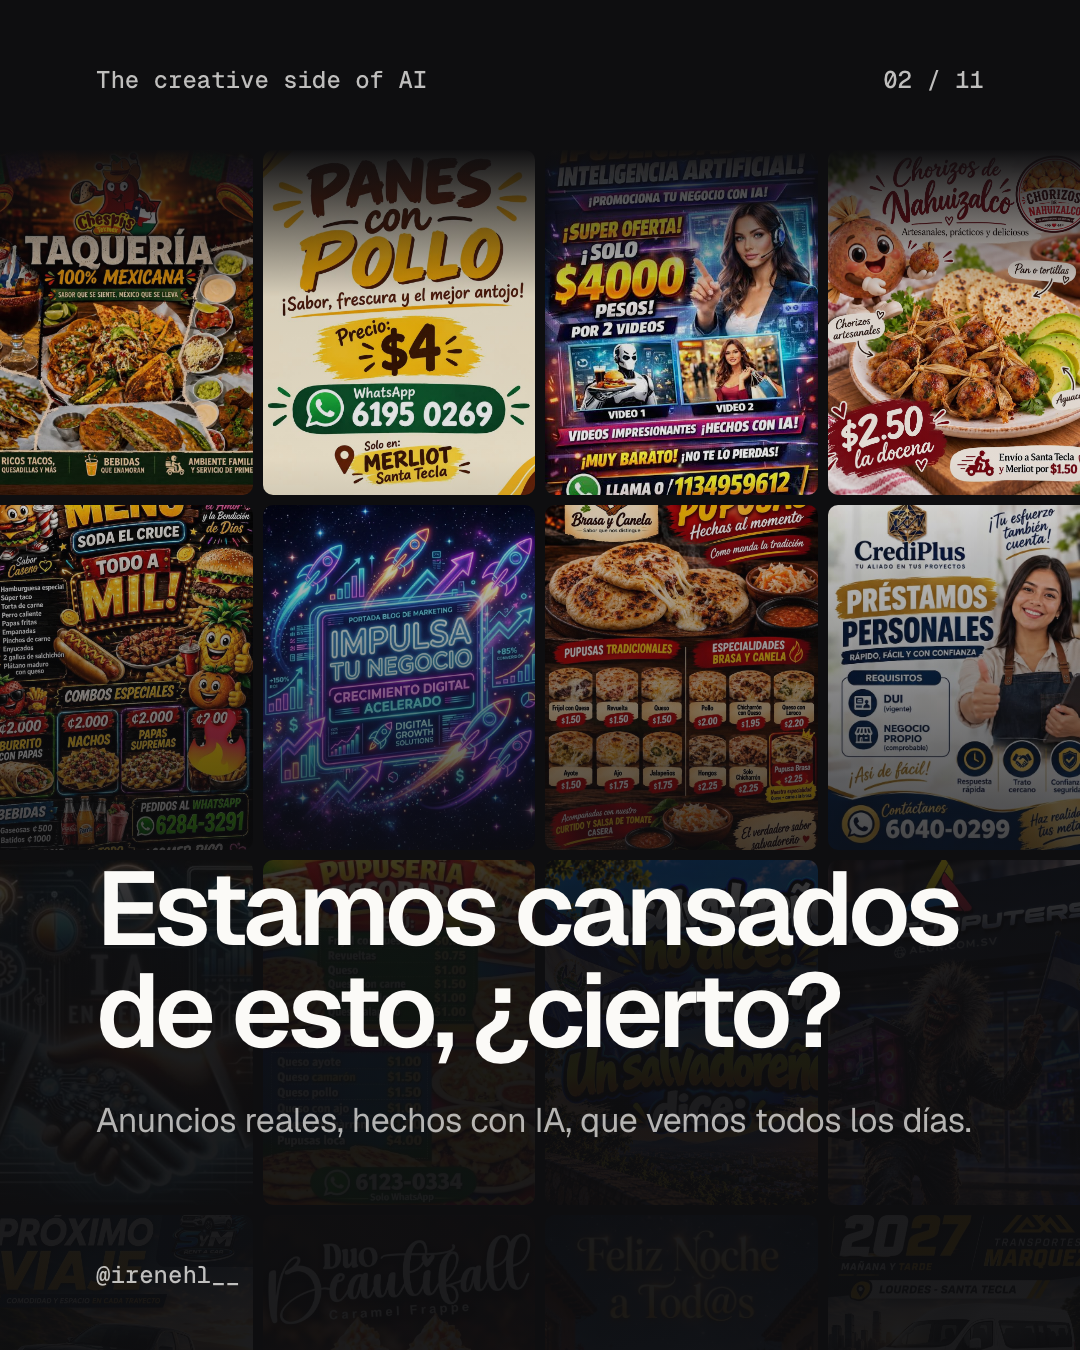
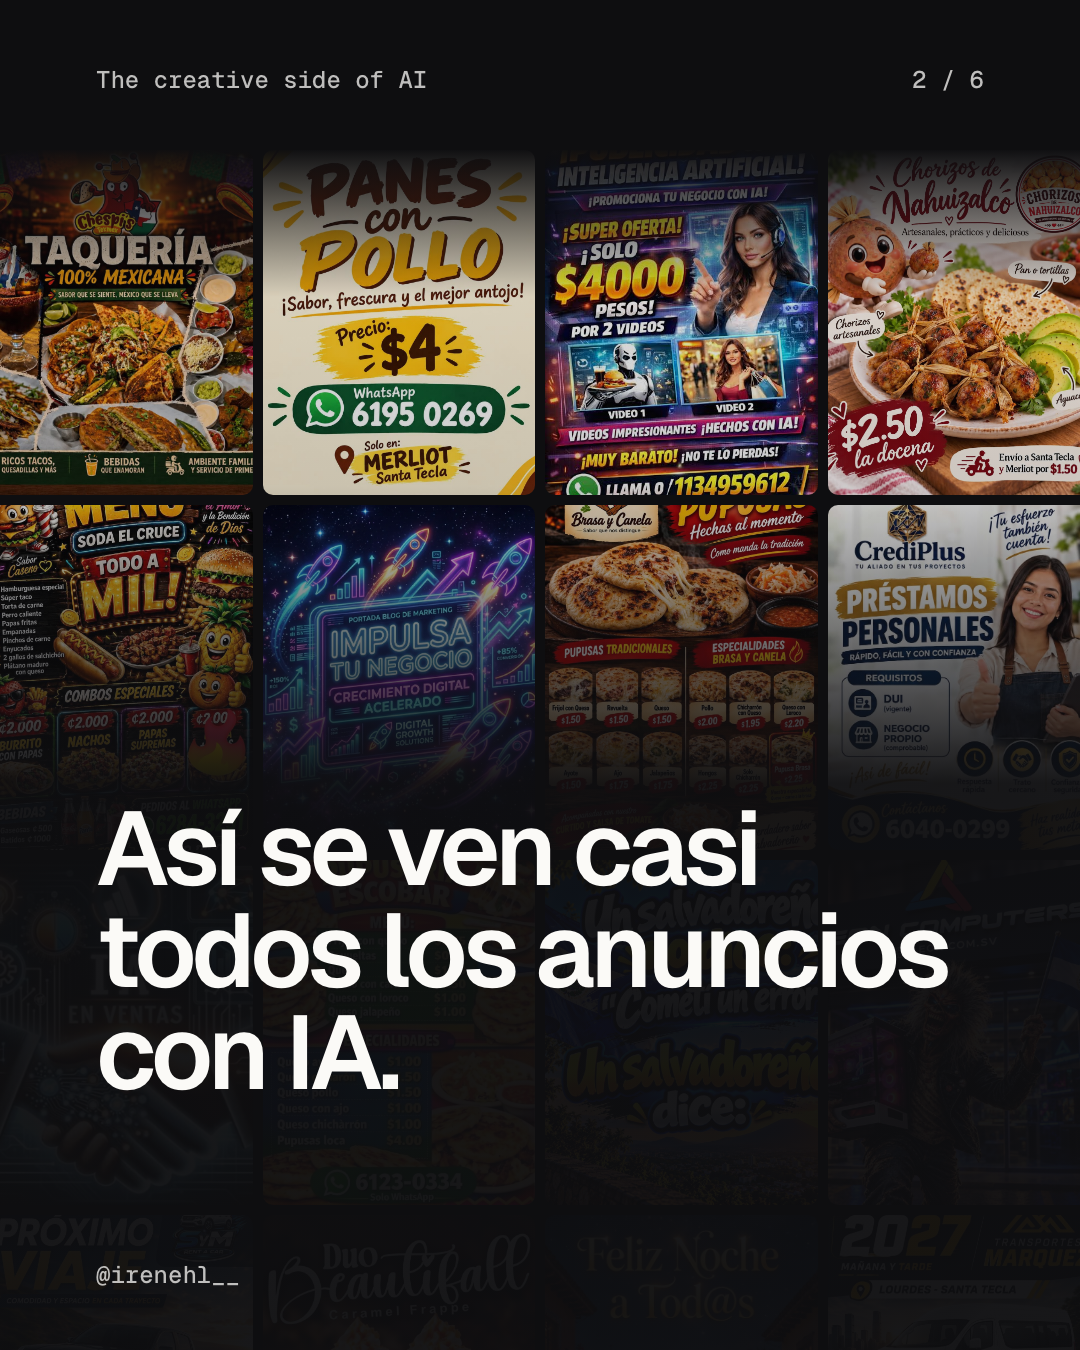
Cut the carousel to 6 self-explanatory slides
People won't read 11 slides and there is no one to explain them, so it
now goes hook, collage, generic vs directed prompt, results, a 3-step
recipe and the close, with minimal text. The test product is called a
plastic bottle so it reads without context.

Generated with [Devin](https://devin.ai)

Changed region(s): [[0.0, 0.4044, 1.0, 0.84], [0.8861, 0.0311, 0.9167, 0.0622], [0.825, 0.0311, 0.8556, 0.0622]]

diff --git a/carousel/index.html b/carousel/index.html
@@ -82,14 +82,8 @@ body.export .preview .post { zoom: 1; }
   gap: 10px;
 }
 .collage img { width: 100%; height: 100%; object-fit: cover; border-radius: 10px; }
-.shade { position: absolute; inset: 0; background: linear-gradient(180deg, rgba(14,14,16,1) 0%, rgba(14,14,16,1) 11%, rgba(14,14,16,0.15) 22%, rgba(14,14,16,0.1) 34%, rgba(14,14,16,0.94) 70%); z-index: 1; }
+.shade { position: absolute; inset: 0; background: linear-gradient(180deg, rgba(14,14,16,1) 0%, rgba(14,14,16,1) 11%, rgba(14,14,16,0.15) 22%, rgba(14,14,16,0.2) 36%, rgba(14,14,16,0.96) 58%); z-index: 1; }
 .dark .content { color: var(--card); }
-
-/* 03 bingo */
-.bingo { display: grid; grid-template-columns: repeat(3, 1fr); gap: 18px; margin-top: 56px; }
-.cell { background: var(--card); border: 2px solid var(--line); border-radius: 22px; overflow: hidden; }
-.cell img { display: block; width: 100%; height: 230px; object-fit: cover; }
-.cell span { display: block; padding: 20px 18px 24px; font: 600 26px/1.15 var(--sans); white-space: nowrap; letter-spacing: -0.02em; }
 
 /* prompt boxes */
 .pbox {
@@ -101,11 +95,6 @@ body.export .preview .post { zoom: 1; }
   letter-spacing: -0.02em;
 }
 .label { font: 500 24px var(--mono); color: var(--muted); }
-.rows { margin-top: 44px; border-top: 2px solid var(--line); }
-.row { display: grid; grid-template-columns: 250px 1fr; gap: 28px; padding: 24px 0; border-bottom: 2px solid var(--line); }
-.row b { font: 600 28px/1.25 var(--sans); letter-spacing: -0.02em; }
-.row p { font: 400 25px/1.45 var(--mono); letter-spacing: -0.02em; }
-
 /* images */
 .shot { display: block; border-radius: 22px; object-fit: cover; box-shadow: 0 40px 70px -40px rgba(14,14,16,0.45); }
 .tag {
@@ -118,27 +107,16 @@ body.export .preview .post { zoom: 1; }
 }
 .frame { position: relative; }
 
-/* 09 flow */
-.flow { margin-top: 48px; display: flex; flex-direction: column; align-items: center; gap: 0; }
-.nrow { display: flex; gap: 14px; justify-content: center; }
-.node {
-  background: var(--card);
-  border: 2px solid var(--line);
-  border-radius: 18px;
-  padding: 16px 24px 18px;
-  min-width: 180px;
-  text-align: center;
-}
-.node small { display: block; font: 500 18px var(--mono); color: var(--muted); margin-bottom: 4px; }
-.node strong { font: 600 30px var(--sans); letter-spacing: -0.02em; }
-.node.key { background: var(--ink); border-color: var(--ink); color: var(--card); }
-.node.key small { color: rgba(251,250,247,0.6); }
-.arrow { height: 40px; width: 2px; background: var(--line); position: relative; }
-.arrow::after { content: ""; position: absolute; left: -7px; bottom: -2px; border: 8px solid transparent; border-top: 10px solid var(--line); border-bottom: 0; }
+/* steps */
+.steps { list-style: none; margin: 24px 0 0; padding: 0; counter-reset: s; }
+.steps li { counter-increment: s; display: flex; gap: 28px; align-items: baseline; padding: 26px 0; border-top: 2px solid var(--line); font: 600 58px/1.1 var(--sans); letter-spacing: -0.035em; }
+.steps li:last-child { border-bottom: 2px solid var(--line); }
+.steps li::before { content: counter(s); font: 500 28px var(--mono); color: var(--muted); min-width: 36px; }
+.label { display: block; }
 
-/* 10 recipe */
+/* recipe */
 .recipe { list-style: none; margin: 64px 0 0; padding: 0; }
-.recipe li { display: flex; gap: 32px; align-items: baseline; padding: 30px 0; border-top: 2px solid var(--line); font: 600 50px/1.1 var(--sans); letter-spacing: -0.035em; }
+.recipe li { display: flex; gap: 32px; align-items: baseline; padding: 44px 0; border-top: 2px solid var(--line); font: 600 64px/1.08 var(--sans); letter-spacing: -0.035em; }
 .recipe li:last-child { border-bottom: 2px solid var(--line); }
 .recipe b { font: 500 30px var(--mono); color: var(--muted); min-width: 48px; }
 </style>
@@ -149,11 +127,9 @@ body.export .preview .post { zoom: 1; }
 <!-- 01 · Portada -->
 <section class="post" id="p01">
   <div class="orb" style="right:-260px;top:-200px;width:900px;height:900px"></div>
-  <div class="top"><span>The creative side of AI</span><span>01 / 11</span></div>
+  <div class="top"><span>The creative side of AI</span><span>1 / 6</span></div>
   <div class="content">
-    <h1 class="xl push">Tu anuncio hecho con IA no tiene que <span class="hl">verse como IA.</span></h1>
-    <p class="body" style="margin-top:44px;max-width:820px">Lo que aprendí dirigiendo la IA en vez de dejarla generar.</p>
-    <div style="height:110px"></div>
+    <h1 class="xl push" style="margin-bottom:150px">Tu anuncio con IA no tiene que <span class="hl">verse como IA.</span></h1>
   </div>
   <div class="bottom"><span>@irenehl__</span><span>Desliza →</span></div>
 </section>
@@ -167,168 +143,73 @@ body.export .preview .post { zoom: 1; }
     <img src="assets/img/09.jpg" alt=""><img src="assets/img/22.jpg" alt=""><img src="assets/img/13.jpg" alt=""><img src="assets/img/02.jpg" alt="">
   </div>
   <div class="shade"></div>
-  <div class="top"><span>The creative side of AI</span><span>02 / 11</span></div>
+  <div class="top"><span>The creative side of AI</span><span>2 / 6</span></div>
   <div class="content">
-    <h2 class="xl push">Estamos cansados de esto, ¿cierto?</h2>
-    <p class="body" style="margin-top:36px;color:rgba(251,250,247,0.7)">Anuncios reales, hechos con IA, que vemos todos los días.</p>
-    <div style="height:110px"></div>
+    <h2 class="xl push" style="margin-bottom:150px">Así se ven casi todos los anuncios con IA.</h2>
   </div>
   <div class="bottom"><span>@irenehl__</span><span></span></div>
 </section>
 
-<!-- 03 · Bingo -->
+<!-- 03 · Contraste -->
 <section class="post" id="p03">
-  <div class="top"><span>The creative side of AI</span><span>03 / 11</span></div>
-  <div class="content" style="padding-top:60px">
-    <h2 class="l">El bingo del anuncio con IA</h2>
-    <div class="bingo">
-      <div class="cell"><img src="assets/img/24.jpg" alt="" style="object-position:85% 30%"><span>Gente de plástico</span></div>
-      <div class="cell"><img src="assets/img/08.jpg" alt="" style="object-position:20% 45%"><span>Todo tiene carita</span></div>
-      <div class="cell"><img src="assets/img/10.jpg" alt="" style="object-position:50% 20%"><span>La comida brilla</span></div>
-      <div class="cell"><img src="assets/img/26.jpg" alt="" style="object-position:50% 85%"><span>Manos raras</span></div>
-      <div class="cell"><img src="assets/img/28.webp" alt="" style="object-position:50% 40%"><span>Neón y cohetes</span></div>
-      <div class="cell"><img src="assets/img/16.jpg" alt="" style="object-position:50% 30%"><span>Mil textos, nadie lee</span></div>
-    </div>
-    <p class="body push" style="margin-bottom:110px">Si tu feed llena el cartón, ya lo viste mil veces.</p>
-  </div>
-  <div class="bottom"><span>@irenehl__</span><span></span></div>
-</section>
-
-<!-- 04 · Tesis -->
-<section class="post" id="p04">
-  <div class="orb" style="left:-300px;bottom:-320px"></div>
-  <div class="top"><span>The creative side of AI</span><span>04 / 11</span></div>
-  <div class="content" style="padding-top:80px">
-    <p class="m muted">No es que usen IA.</p>
-    <p class="m" style="margin-top:10px">Es que todos se ven iguales.</p>
-    <h2 class="xl push" style="margin-bottom:120px">La herramienta es la misma. Lo que cambia son las <span class="hl">decisiones.</span></h2>
-  </div>
-  <div class="bottom"><span>@irenehl__</span><span></span></div>
-</section>
-
-<!-- 05 · El prompt de todo mundo -->
-<section class="post" id="p05">
-  <div class="top"><span>The creative side of AI</span><span>05 / 11</span></div>
-  <div class="content" style="padding-top:80px">
-    <span class="label">Lo que hace todo mundo</span>
-    <div class="pbox" style="margin-top:20px">Anuncio de Instagram para una <span class="hl">pachita</span></div>
-    <p class="l" style="margin-top:72px">Un prompt.<br>Todo lo demás, <span class="muted">por default.</span></p>
-    <p class="body" style="margin-top:36px">Así sale el collage.</p>
-    <p class="m push" style="margin-bottom:120px">Lo que funciona: dirigirla, pieza por pieza. →</p>
-  </div>
-  <div class="bottom"><span>@irenehl__</span><span></span></div>
-</section>
-
-<!-- 06 · Anatomía del prompt -->
-<section class="post" id="p06">
-  <div class="top"><span>The creative side of AI</span><span>06 / 11</span></div>
-  <div class="content" style="padding-top:60px">
-    <h2 class="m">Un prompt con decisiones</h2>
-    <div class="rows">
-      <div class="row"><b>El producto real</b><p>Usa solo la <span class="hl">pachita</span> de la imagen de referencia, exactamente como es.</p></div>
-      <div class="row"><b>El formato</b><p>Post de Instagram, 4:5.</p></div>
-      <div class="row"><b>El fondo</b><p>Fondo liso <span class="hl">naranja cálido</span>, del color de la pachita.</p></div>
-      <div class="row"><b>La luz</b><p>La pachita en el tercio derecho, con una sombra marcada de luz de día.</p></div>
-      <div class="row"><b>El texto exacto</b><p>A la izquierda, solo este texto, bien escrito: “<span class="hl">Tomá agua sin pensarlo.</span>” y abajo, más pequeño: “<span class="hl">Q95</span>”.</p></div>
-      <div class="row"><b>Lo prohibido</b><p>Ningún otro texto: sin sellos, sin íconos, sin stickers, sin brillos, sin letras 3D, sin etiquetas de precio.</p></div>
-    </div>
-    <p class="body push" style="margin-bottom:110px">En degradado, lo que cambia con cada producto.</p>
-  </div>
-  <div class="bottom"><span>@irenehl__</span><span></span></div>
-</section>
-
-<!-- 07 · Resultado -->
-<section class="post" id="p07">
-  <div class="orb" style="right:-320px;top:120px;width:700px;height:700px;opacity:.6"></div>
-  <div class="top"><span>The creative side of AI</span><span>07 / 11</span></div>
-  <div class="content" style="padding-top:80px">
-    <h2 class="l">El resultado</h2>
-    <p class="body" style="margin-top:20px">Misma IA que el collage.</p>
-    <img class="shot" src="assets/img/post.webp" alt="Post de venta: pachita naranja con el texto Tomá agua sin pensarlo, Q95" style="width:888px;height:495px;margin-top:64px">
-    <p class="m push" style="margin-bottom:120px">Una frase y el precio, exactos. Todo lo demás, prohibido.</p>
-  </div>
-  <div class="bottom"><span>@irenehl__</span><span></span></div>
-</section>
-
-<!-- 08 · Tres piezas -->
-<section class="post" id="p08">
-  <div class="top"><span>The creative side of AI</span><span>08 / 11</span></div>
-  <div class="content" style="padding-top:60px">
-    <h2 class="m">Una foto de celular, tres piezas</h2>
-    <div class="frame" style="margin-top:44px;align-self:flex-start">
-      <img class="shot" src="assets/img/post.webp" alt="" style="width:888px;height:495px">
-      <span class="tag">Post de venta</span>
-    </div>
-    <div style="display:flex;gap:24px;margin-top:24px">
-      <div class="frame"><img class="shot" src="assets/img/catalogo.webp" alt="" style="width:432px;height:380px"><span class="tag">Catálogo</span></div>
-      <div class="frame"><img class="shot" src="assets/img/story.webp" alt="" style="width:432px;height:380px;object-position:50% 65%"><span class="tag">Story</span></div>
-    </div>
-  </div>
-  <div class="bottom"><span>@irenehl__</span><span></span></div>
-</section>
-
-<!-- 09 · El flow -->
-<section class="post" id="p09">
-  <div class="orb" style="left:-380px;top:420px;width:700px;height:700px;opacity:.55"></div>
-  <div class="top"><span>The creative side of AI</span><span>09 / 11</span></div>
-  <div class="content" style="padding-top:60px">
-    <h2 class="m">Todo en un solo flow de ElevenLabs</h2>
-    <div class="flow">
-      <div class="nrow"><div class="node key"><small>en vivo</small><strong>Foto producto</strong></div></div>
-      <div class="arrow"></div>
-      <div class="nrow">
-        <div class="node"><small>imagen</small><strong>Escenas</strong></div>
-        <div class="node"><small>imagen</small><strong>Story</strong></div>
-        <div class="node"><small>imagen</small><strong>Catálogo</strong></div>
-      </div>
-      <div class="arrow"></div>
-      <div class="nrow">
-        <div class="node"><small>imagen + texto</small><strong>Post de venta</strong></div>
-        <div class="node"><small>video sin audio</small><strong>Clip</strong></div>
-      </div>
-      <div class="arrow"></div>
-      <div class="nrow">
-        <div class="node"><small>voz diseñada</small><strong>Voz</strong></div>
-        <div class="node"><small>música</small><strong>Música</strong></div>
-        <div class="node"><small>efectos</small><strong>Ambiente</strong></div>
-      </div>
-      <div class="arrow"></div>
-      <div class="nrow"><div class="node key"><small>composición</small><strong>Anuncio</strong></div></div>
-    </div>
-    <p class="body push" style="margin-bottom:110px">Lo armas una vez. Lo usas con cada producto.</p>
-  </div>
-  <div class="bottom"><span>@irenehl__</span><span></span></div>
-</section>
-
-<!-- 10 · La receta -->
-<section class="post" id="p10">
-  <div class="top"><span>The creative side of AI</span><span>10 / 11</span></div>
-  <div class="content" style="padding-top:60px">
-    <h2 class="l">La receta</h2>
-    <ol class="recipe">
-      <li><b>01</b>Empieza con tu producto real.</li>
-      <li><b>02</b>Dile el formato, el fondo y la luz.</li>
-      <li><b>03</b>El texto lo escribes tú.</li>
-      <li><b>04</b>Prohíbe lo que delata a la IA.</li>
-      <li><b>05</b>La IA produce. La historia la pones tú.</li>
+  <div class="top"><span>The creative side of AI</span><span>3 / 6</span></div>
+  <div class="content" style="padding-top:70px">
+    <span class="label">Lo que pide todo mundo</span>
+    <div class="pbox muted" style="margin-top:18px;font-size:38px">“Anuncio de Instagram para una botella de plástico”</div>
+    <span class="label" style="margin-top:72px">Lo que funciona</span>
+    <ol class="steps">
+      <li>Mi botella, tal cual es.</li>
+      <li>Fondo naranja liso.</li>
+      <li>Luz de ventana, una sombra.</li>
+      <li>Solo esta frase y el precio.</li>
+      <li>Nada más.</li>
     </ol>
   </div>
   <div class="bottom"><span>@irenehl__</span><span></span></div>
 </section>
 
-<!-- 11 · Cierre -->
-<section class="post" id="p11">
+<!-- 04 · Resultado -->
+<section class="post" id="p04">
+  <div class="top"><span>The creative side of AI</span><span>4 / 6</span></div>
+  <div class="content" style="padding-top:60px">
+    <h2 class="m">Una foto de celular. Tres piezas listas.</h2>
+    <div class="frame" style="margin-top:44px;align-self:flex-start">
+      <img class="shot" src="assets/img/post.webp" alt="Post de venta de una botella de plástico naranja con el texto Tomá agua sin pensarlo, Q95" style="width:888px;height:495px">
+      <span class="tag">Post de venta</span>
+    </div>
+    <div style="display:flex;gap:24px;margin-top:24px">
+      <div class="frame"><img class="shot" src="assets/img/catalogo.webp" alt="Foto de catálogo de la botella" style="width:432px;height:380px"><span class="tag">Catálogo</span></div>
+      <div class="frame"><img class="shot" src="assets/img/story.webp" alt="Story de la botella en una ventana" style="width:432px;height:380px;object-position:50% 65%"><span class="tag">Story</span></div>
+    </div>
+  </div>
+  <div class="bottom"><span>@irenehl__</span><span>Hecho con ElevenLabs</span></div>
+</section>
+
+<!-- 05 · Receta -->
+<section class="post" id="p05">
+  <div class="orb" style="left:-320px;bottom:-340px;opacity:.6"></div>
+  <div class="top"><span>The creative side of AI</span><span>5 / 6</span></div>
+  <div class="content" style="padding-top:70px">
+    <h2 class="l">La receta</h2>
+    <ol class="recipe">
+      <li><b>01</b>Usa tu producto real.</li>
+      <li><b>02</b>Tú decides el fondo, la luz y el texto.</li>
+      <li><b>03</b>Prohíbe lo que delata a la IA.</li>
+    </ol>
+  </div>
+  <div class="bottom"><span>@irenehl__</span><span></span></div>
+</section>
+
+<!-- 06 · Cierre -->
+<section class="post" id="p06">
   <div class="orb" style="right:-240px;bottom:-260px;width:980px;height:980px"></div>
-  <div class="top"><span>The creative side of AI</span><span>11 / 11</span></div>
+  <div class="top"><span>The creative side of AI</span><span>6 / 6</span></div>
   <div class="content" style="padding-top:80px">
     <p class="l muted">No hay que odiar la IA.</p>
     <h2 class="xl" style="margin-top:20px">Hay que <span class="hl">saber usarla.</span></h2>
-    <div class="push" style="margin-bottom:120px">
-      <p class="body" style="max-width:820px">Guárdalo para tu próximo post y compártelo con alguien que vende por Instagram.</p>
-      <p class="m" style="margin-top:44px">@irenehl__</p>
-    </div>
+    <p class="m push" style="margin-bottom:150px">@irenehl__</p>
   </div>
-  <div class="bottom"><span>The creative side of AI with ElevenLabs</span><span></span></div>
+  <div class="bottom"><span>Guárdalo para tu próximo post</span><span></span></div>
 </section>
 
 </div>

diff --git a/AGENTS.md b/AGENTS.md
@@ -9,7 +9,7 @@ Charla "The creative side of AI with ElevenLabs" (WordCamp Guatemala 2026, sáb 
 - `deck/assets/results/`: post, catálogo y story de prueba generados con el flow (slide 7).
 - `deck/assets/ads/backup.mp4`: story de respaldo en video (tecla B), opcional.
 - `flow/flow-spec.md`: especificación del flow de ElevenCreative Flows para la demo en vivo.
-- `carousel/`: carrusel de Instagram (1080x1350, 11 slides) con el contenido de la charla, sin marca de WordCamp (blanco hueso, negro, fuente Geist y un degradado suave). `index.html` muestra todas las slides; `npm install && npm run export` (dentro de `carousel/`) genera los PNG en `carousel/export/`. Caption en `carousel/caption.md`.
+- `carousel/`: carrusel de Instagram (1080x1350, 6 slides, poco texto y que se entienda sin explicación; el producto de prueba se llama "botella de plástico", nunca "pachita") con el contenido de la charla, sin marca de WordCamp (blanco hueso, negro, fuente Geist y un degradado suave). `index.html` muestra todas las slides; `npm install && npm run export` (dentro de `carousel/`) genera los PNG en `carousel/export/`. Caption en `carousel/caption.md`.
 
 ## Correr
 ```

diff --git a/carousel/caption.md b/carousel/caption.md
@@ -1,13 +1,9 @@
 # Caption para Instagram
 
-Tu anuncio hecho con IA no tiene que verse como IA. 🧡
+Tu anuncio con IA no tiene que verse como IA.
 
-En WordCamp Guatemala hablé de algo que todos vemos en el feed: anuncios con IA que se ven todos iguales. Gente de plástico, comida que brilla, mil textos que nadie lee.
+El problema no es la herramienta: es dejar que decida todo por default. Una foto de celular, un poco de dirección y salen post, catálogo y story listos.
 
-El problema no es la IA. Es dejar que decida todo por default.
+Guárdalo para tu próximo post.
 
-En el carrusel te enseño cómo armé un post de venta, una foto de catálogo y una story a partir de una sola foto de celular, con un solo flow en ElevenLabs. Y la receta para que tu post no termine en el collage.
-
-Guárdalo para tu próximo post y mándaselo a alguien que vende por Instagram.
-
-#IA #ElevenLabs #MarketingDigital #Emprendimiento #WordCampGuatemala #ContenidoParaRedes
+#IA #ElevenLabs #MarketingDigital #Emprendimiento #WordCampGuatemala
